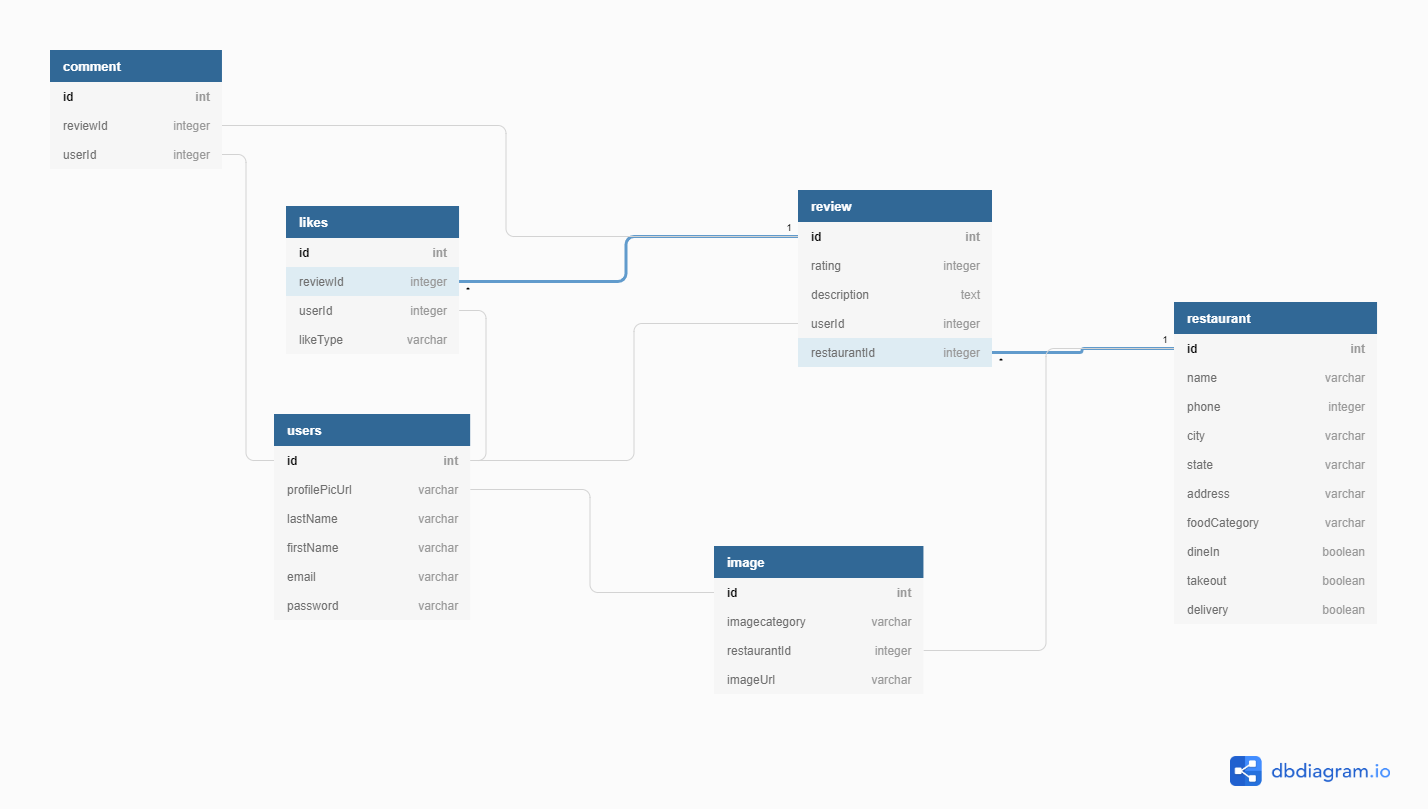
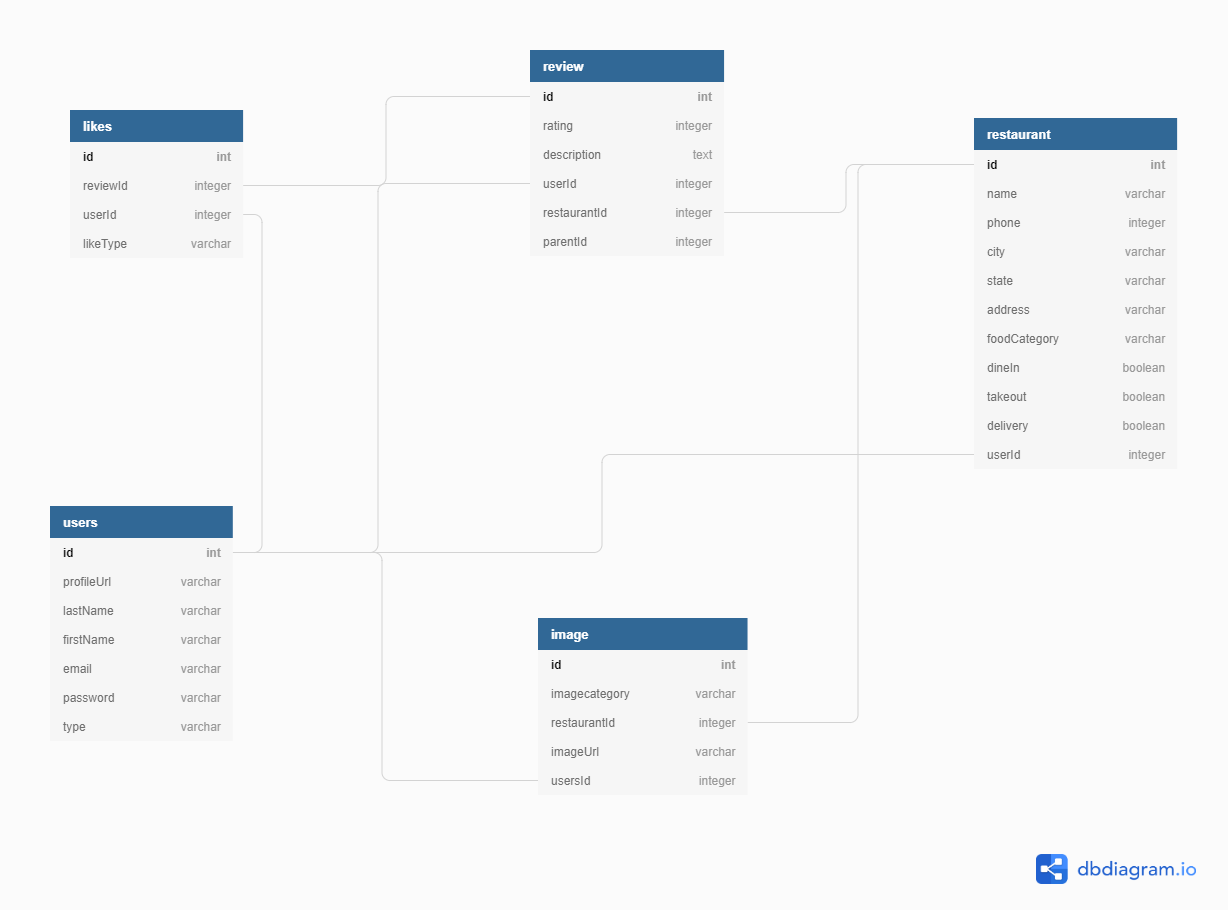
updated db schema

diff --git a/documentation/feature-list/README.md b/documentation/feature-list/README.md
@@ -92,6 +92,7 @@
 | firstName VARCHAR not null|
 | email  VARCHAR  not null unique |
 | Password  VARCHAR not null|
+| type VARCHAR not null |
 
 | RESTAURANT TABLE  |
 |-------------------|
@@ -105,6 +106,7 @@
 | dine-in boolean not null|
 | takeout boolean not null |
 | delivery boolean not null |
+| userId integer not null |
 
 | IMAGES TABLE |
 |--------------|
